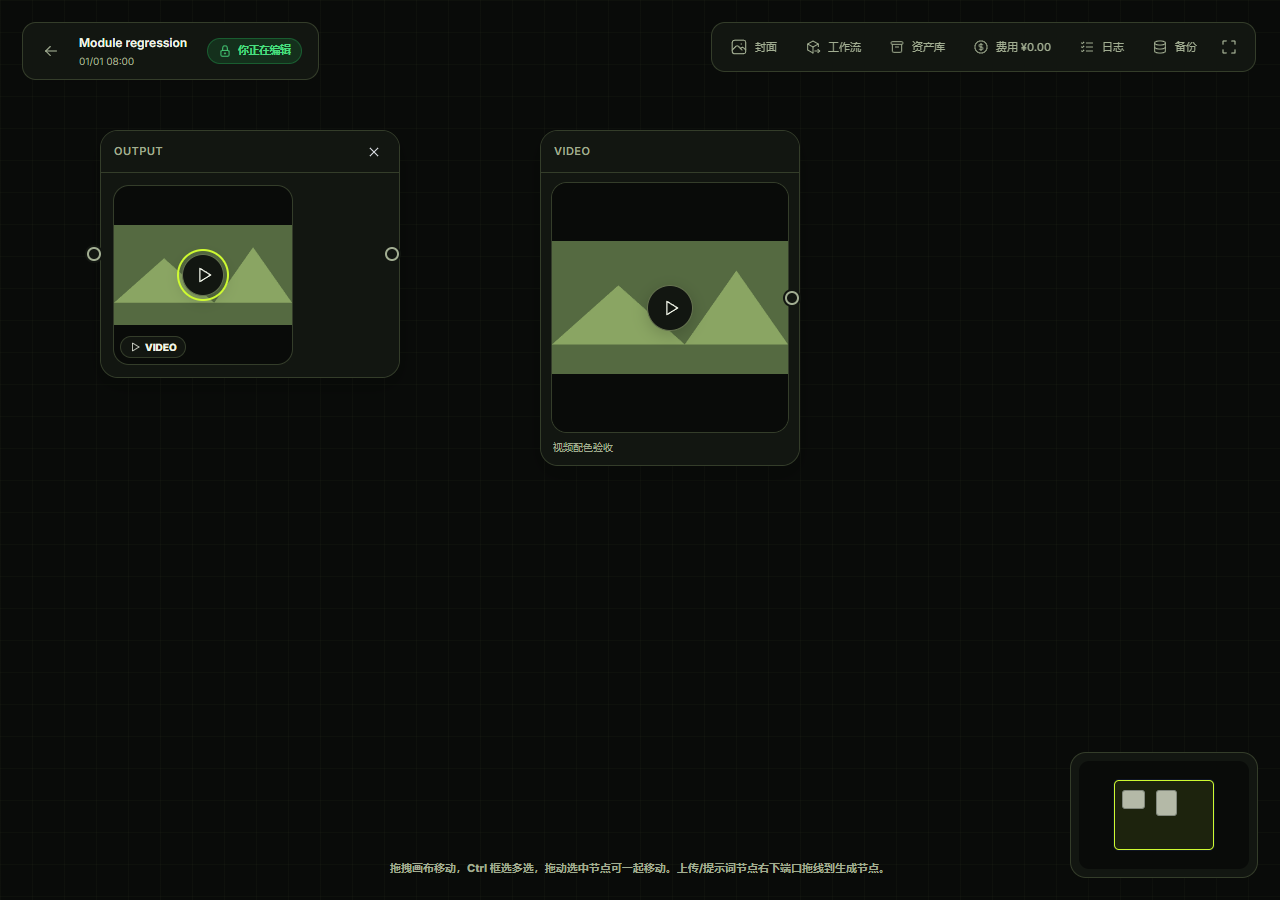
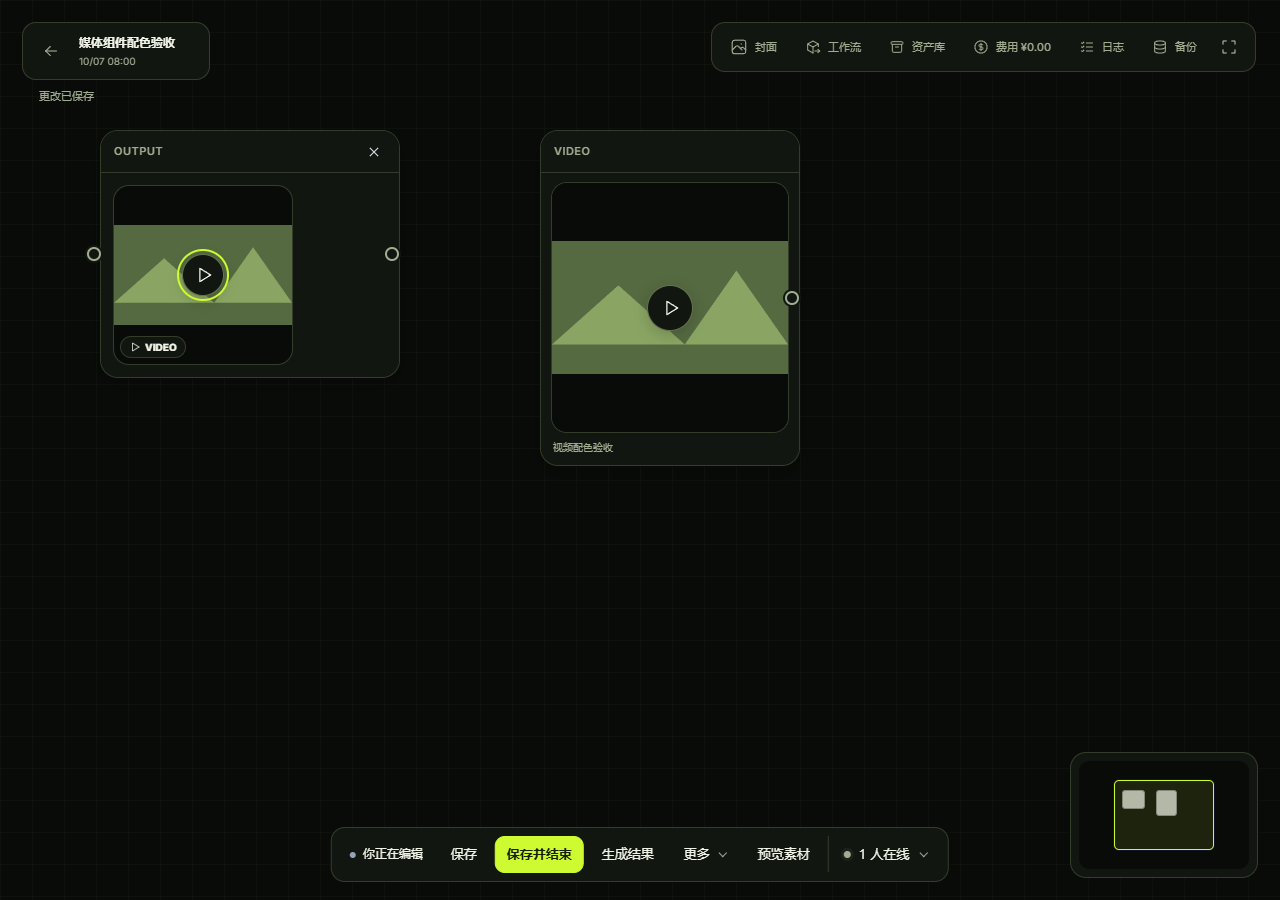
test(canvas): capture media palette in member workspace mode

diff --git a/docs/design/media-palette/README.md b/docs/design/media-palette/README.md
@@ -9,7 +9,7 @@
 
 ## 对比截图
 
-截图使用实际生产 HTML/CSS/JavaScript，API 由浏览器测试夹具响应，媒体为仓库内的短视频与测试缩略图，**不是真实用户作品**。升级前来自 `cceeb5a` 的原样式。每种画布均保留深浅主题下的卡片与截取面板截图：`before-*.png` / `after-*.png`。
+截图使用实际生产 HTML/CSS/JavaScript，API 由浏览器测试夹具响应，媒体为仓库内的短视频与测试缩略图，**不是真实用户作品**。升级前来自 `cceeb5a` 的原样式，其截图使用旧的非工作空间入口，仅用于比较媒体组件颜色。升级后已改用工作空间成员模式并加载真实 `MemberCanvasEdit` 权限栏，断言顶部旧锁徽标隐藏且不会请求旧锁接口。每种画布均保留深浅主题下的卡片与截取面板截图：`before-*.png` / `after-*.png`。
 
 | 页面 | 升级前 | 升级后 |
 | --- | --- | --- |
